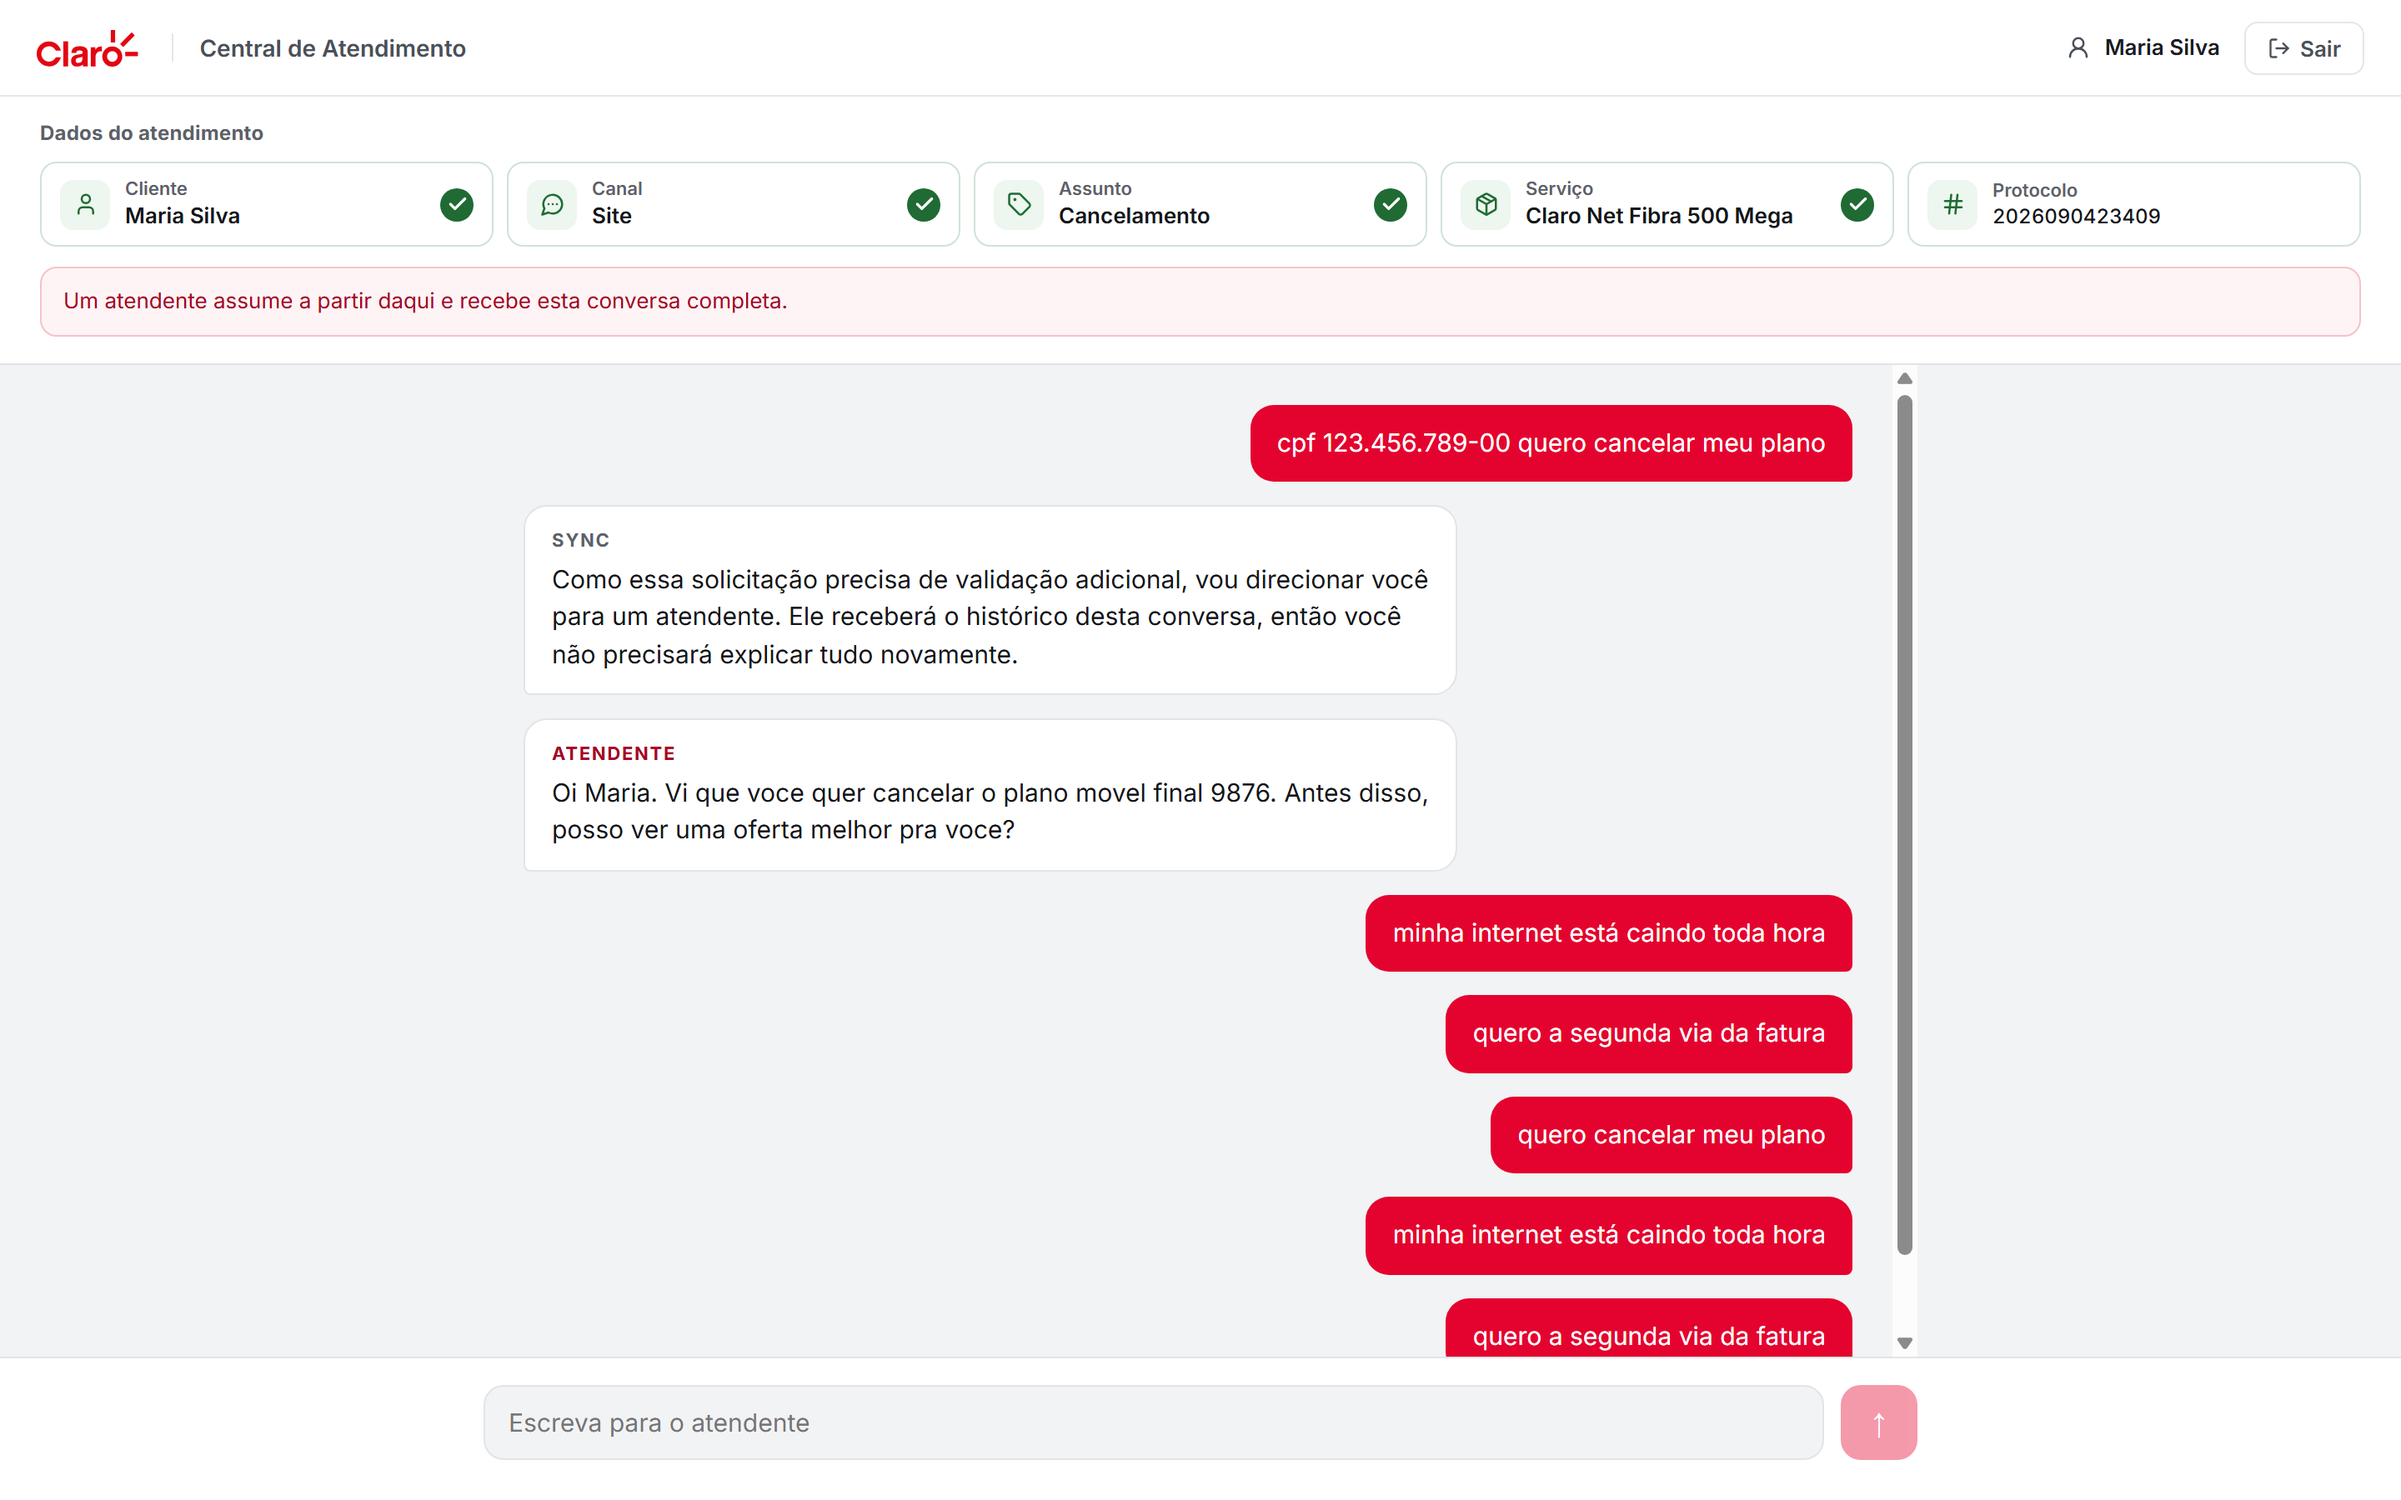
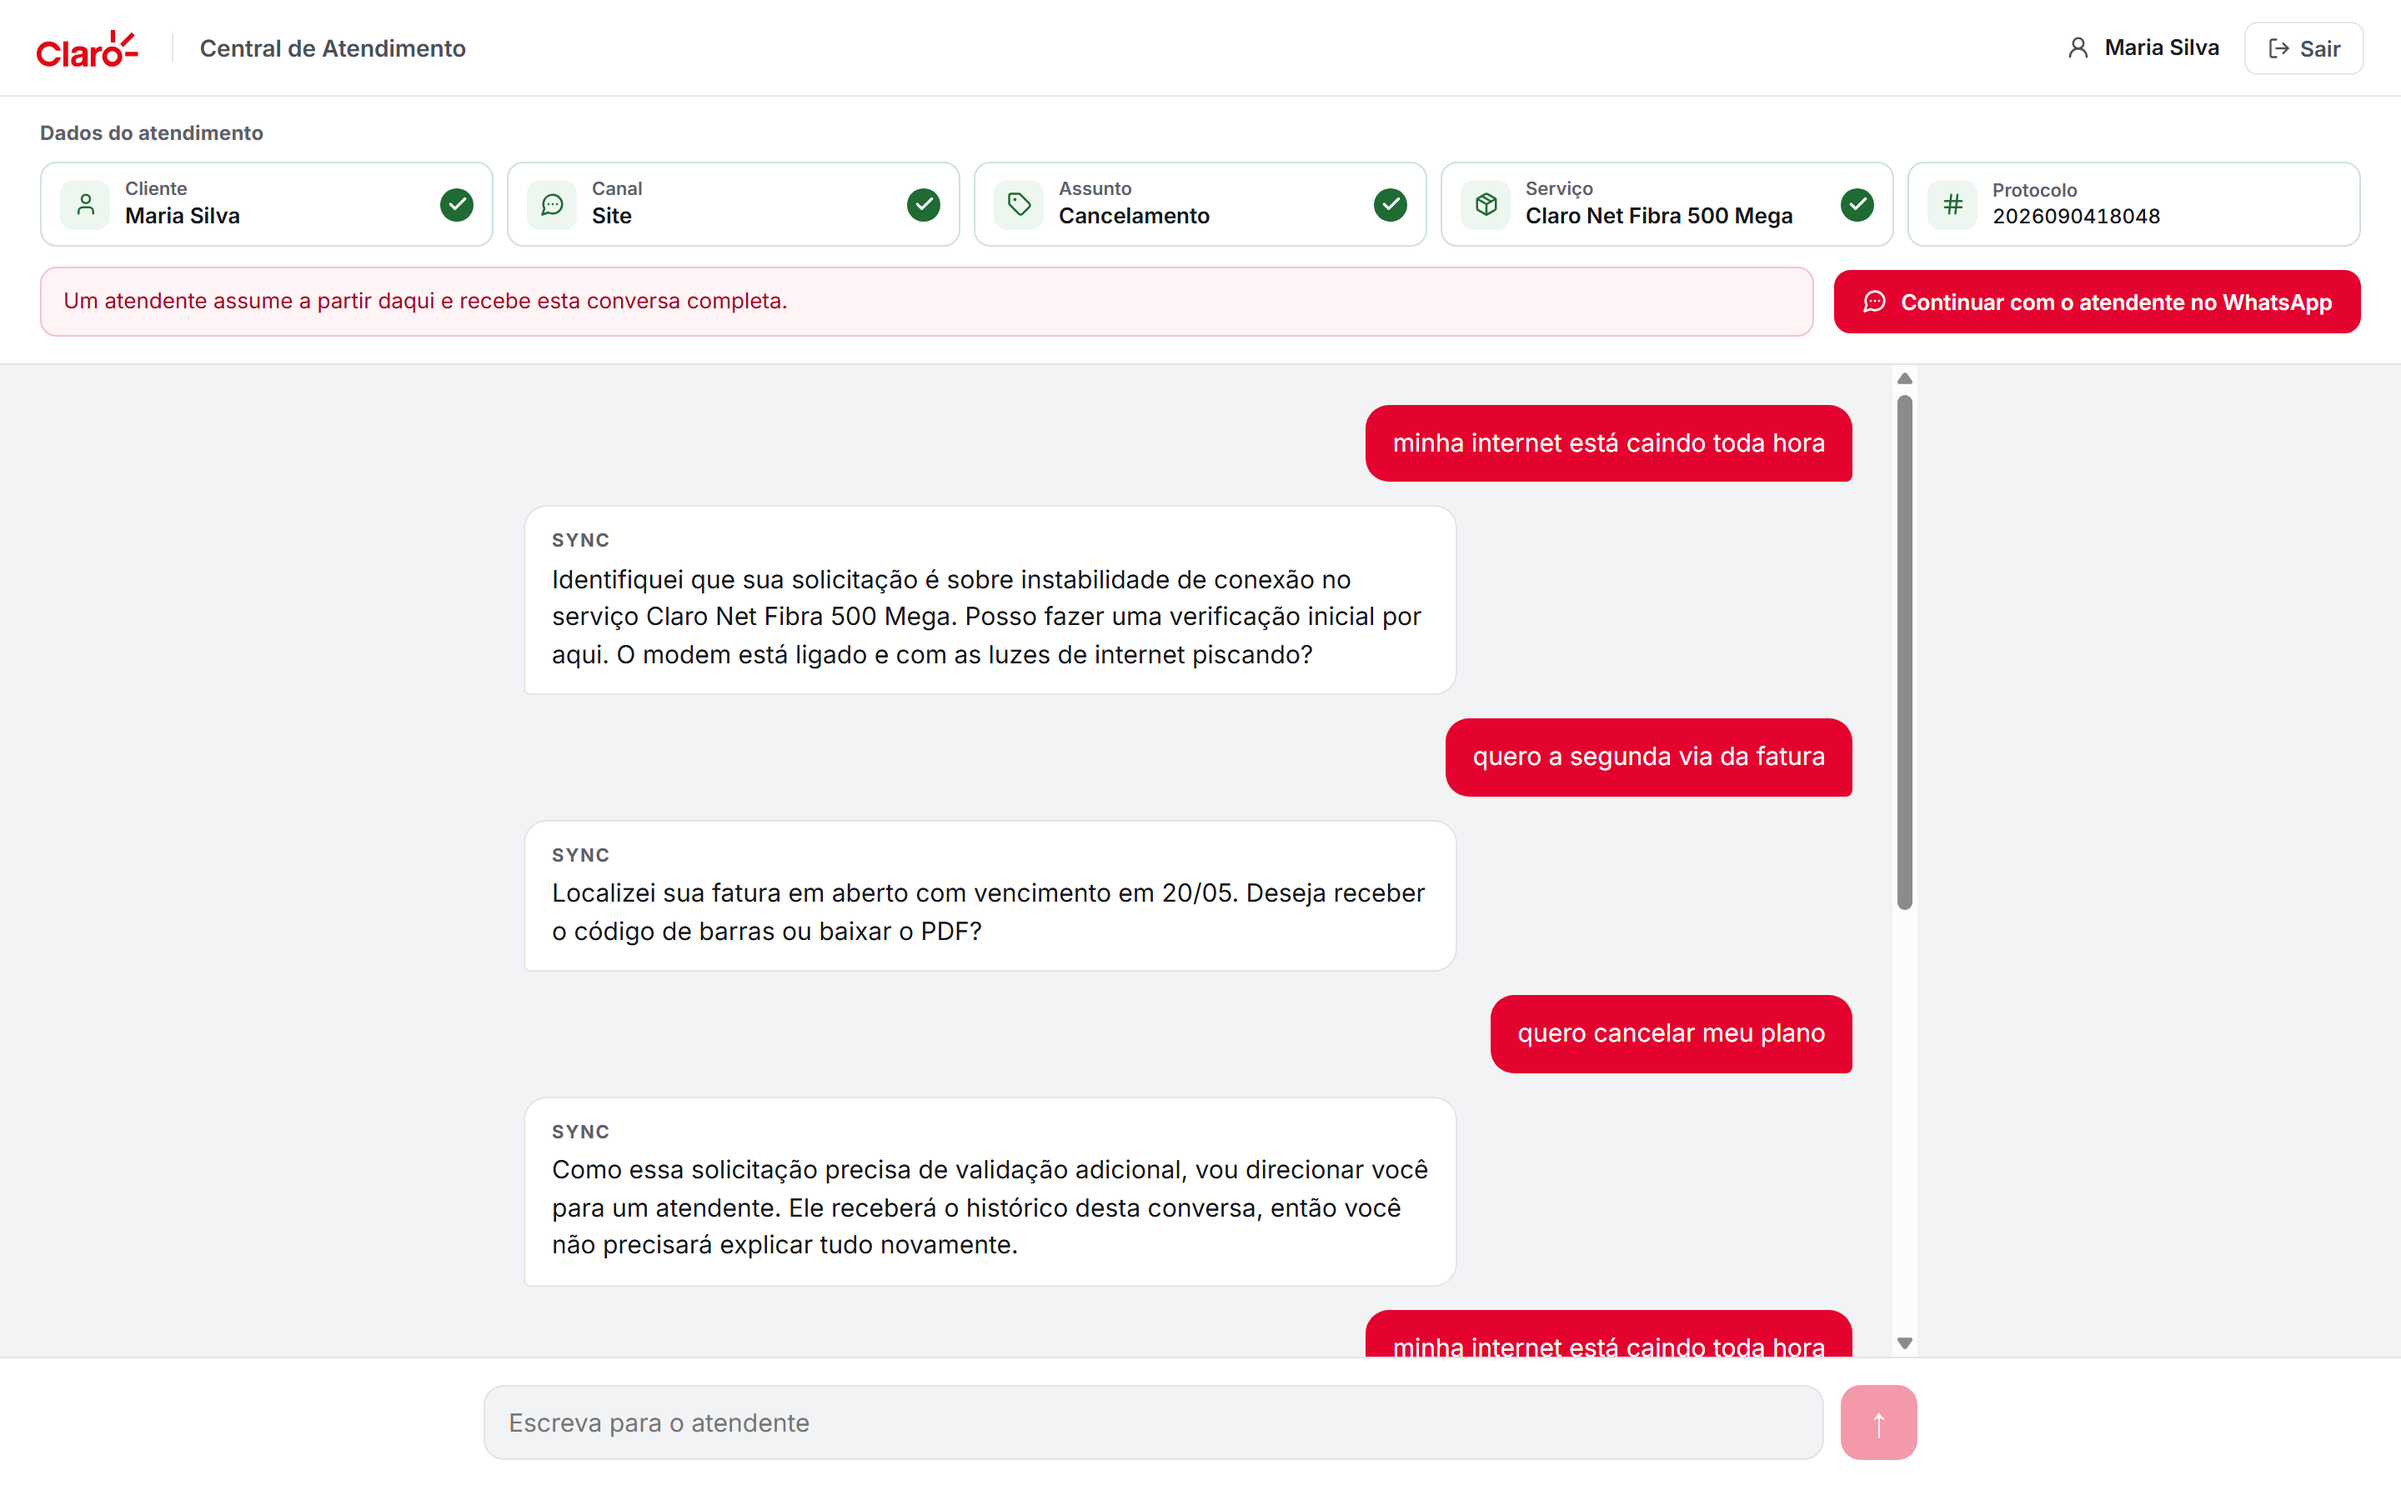
fix: the WhatsApp button was hidden exactly when it matters
The handoff button only rendered while the conversation was still with the
bot. Once an agent took over it disappeared, which is the opposite of the
scenario the project exists for: leave the site and continue the SAME
conversation, with the SAME person, on WhatsApp. It came back only after
the conversation was resolved, which is useless.

It now shows in every state, and turns into the primary action once an
agent is on the line. The escalation note and the button share one row
instead of stacking into two full-width bands above the transcript.

Arriving on WhatsApp with an agent already handling the conversation also
said 'shall we continue from here?', which is the bot taking the turn back
from a human. It now confirms the channel switch and hands the word back
to the agent. Silence was not an option either: sending the code and
getting nothing back looks broken.

Also drops the useless subject clause: 'about talking to a person' is what
the most common intent on this path produced.

diff --git a/apps/api/src/conversation/__tests__/orchestrator.test.ts b/apps/api/src/conversation/__tests__/orchestrator.test.ts
@@ -413,3 +413,63 @@ test('o codigo de handoff nao serve duas vezes', async () => {
 
   expect(intruso.data.protocol).not.toBe(noSite.data.protocol)
 })
+
+test('handoff com atendente na linha: o bot confirma o canal e nao assume a conversa', async () => {
+  // Este e o caminho que se usa de verdade na apresentacao: a pessoa pede
+  // atendente, o atendente responde, e SO ENTAO ela quer levar a conversa para o
+  // WhatsApp. O botao de handoff ficava escondido nesse estado, e a frase de
+  // chegada era "vamos seguir daqui?", com o bot roubando o turno de volta.
+  const handoff = new HandoffUseCase(prisma, conversas, {
+    driver: 'mock',
+    mockUrl: 'http://localhost:5175',
+  })
+
+  const comHandoff = new ConversationOrchestrator(
+    new IdentityService(clientes, conversas),
+    conversas,
+    mensagens,
+    clientes,
+    new RuleClassifier(),
+    handoff,
+  )
+
+  const noSite = await comHandoff.handle(entrada('quero falar com um atendente'))
+  if (!noSite.success) throw new Error('falhou')
+  expect(noSite.data.status).toBe('WAITING_HUMAN')
+
+  await conversas.update(noSite.data.conversationId, { status: 'WITH_HUMAN' })
+
+  // O link tem de sair mesmo com a conversa nas maos do atendente.
+  const link = await handoff.create(noSite.data.conversationId)
+  expect(link.success).toBe(true)
+  if (!link.success) return
+
+  const noZap = await comHandoff.handle({
+    channel: 'WHATSAPP',
+    text: `Continuar atendimento ${link.data.code}`,
+    receivedAt: new Date(),
+    phone: '+5511955550009',
+  })
+  if (!noZap.success) throw new Error('falhou')
+
+  // Mesmo atendimento, canal novo, atendente ainda no comando.
+  expect(noZap.data.protocol).toBe(noSite.data.protocol)
+  expect(noZap.data.context.channel).toBe('WHATSAPP')
+  expect(noZap.data.status).toBe('WITH_HUMAN')
+
+  // Confirma a troca sem convidar a pessoa a conversar com o bot.
+  expect(noZap.data.reply).toContain('mesmo atendimento')
+  expect(noZap.data.reply).toContain('atendente que já está com você')
+  expect(noZap.data.reply).not.toContain('Vamos seguir daqui')
+
+  // E a mensagem seguinte, sem codigo, cai no silencio do bot como antes.
+  const seguinte = await comHandoff.handle({
+    channel: 'WHATSAPP',
+    text: 'ainda esta lenta',
+    receivedAt: new Date(),
+    phone: '+5511955550009',
+  })
+  if (!seguinte.success) throw new Error('falhou')
+  expect(seguinte.data.reply).toBeNull()
+  expect(seguinte.data.protocol).toBe(noSite.data.protocol)
+})

diff --git a/packages/chat-ui/src/ContextRail.tsx b/packages/chat-ui/src/ContextRail.tsx
@@ -108,17 +108,36 @@ export function ContextRail({ state, onHandoff, handoffBusy }: ContextRailProps)
         )}
       </ul>
 
-      {escalado && (
-        <p className="ctx__note ctx__note--escalated">
-          Um atendente assume a partir daqui e recebe esta conversa completa.
-        </p>
-      )}
+      {/* Aviso e acao dividem a linha. Empilhados ocupavam duas faixas inteiras
+          acima da conversa, e o botao ficava orfao no canto esquerdo. */}
+      <div className="ctx__foot">
+        {escalado && (
+          <p className="ctx__note ctx__note--escalated">
+            Um atendente assume a partir daqui e recebe esta conversa completa.
+          </p>
+        )}
 
-      {onHandoff && state.conversationId && !escalado && (
-        <button type="button" className="ctx__handoff" onClick={onHandoff} disabled={handoffBusy}>
-          {handoffBusy ? 'Gerando link' : 'Continuar no WhatsApp'}
-        </button>
-      )}
+        {/* Aparece tambem depois da escalada, e principalmente ali.
+          Escondia-lo com atendente na linha matava o cenario principal do
+          projeto: sair do site e continuar a MESMA conversa, com a MESMA pessoa,
+          no WhatsApp. Sem isso o botao so existia enquanto a conversa era com o
+          bot, que e justamente quando trocar de canal importa menos. */}
+        {onHandoff && state.conversationId && (
+          <button
+            type="button"
+            className={`ctx__handoff ${escalado ? 'is-primary' : ''}`}
+            onClick={onHandoff}
+            disabled={handoffBusy}
+          >
+            <MessageCircleMore size={15} strokeWidth={2.2} aria-hidden="true" />
+            {handoffBusy
+              ? 'Gerando link'
+              : escalado
+                ? 'Continuar com o atendente no WhatsApp'
+                : 'Continuar no WhatsApp'}
+          </button>
+        )}
+      </div>
     </section>
   )
 }

diff --git a/apps/api/src/conversation/auto-reply.ts b/apps/api/src/conversation/auto-reply.ts
@@ -85,6 +85,38 @@ export function buildHandoffReply(
   return `Olá! Continuando seu atendimento iniciado ${origem}. Já identifiquei que é sobre ${assunto}${detalhe}. Vamos seguir daqui?`
 }
 
+/**
+ * Chegada no canal novo quando ja existe atendente na conversa.
+ *
+ * Separada de buildHandoffReply porque a outra diz "vamos seguir daqui?", e essa
+ * frase, com uma pessoa ja conduzindo, e o bot roubando o turno de volta. Aqui o
+ * texto so confirma que e o mesmo atendimento e devolve a palavra ao atendente.
+ *
+ * Ficar em silencio total tambem nao serve: a pessoa abre o WhatsApp, envia o
+ * codigo e nao recebe nada, sem saber se funcionou.
+ */
+export function buildHandoffHumanReply(
+  originChannel: string,
+  intent: Intent | null,
+  ctx: ReplyContext,
+): string {
+  const origem = NOME_DO_CANAL[originChannel] ?? 'em outro canal'
+
+  const servico = ctx.services.find((s) => s.type === 'INTERNET_RESIDENCIAL') ?? ctx.services[0]
+
+  // "sobre o atendimento com uma pessoa" nao informa nada, e e justamente a
+  // intencao mais comum neste caminho: quem pede atendente cai nela. Sem assunto
+  // util a frase diz so a origem, que e o que importa.
+  const semAssuntoUtil =
+    intent === null || intent === 'DESCONHECIDA' || intent === 'FALAR_COM_ATENDENTE'
+
+  const partes = [`Este é o mesmo atendimento iniciado ${origem}`]
+  if (!semAssuntoUtil) partes.push(`sobre ${ASSUNTO[intent]}`)
+  if (ctx.identified && servico) partes.push(`no serviço ${servico.label}`)
+
+  return `${partes.join(', ')}. O atendente que já está com você segue por aqui.`
+}
+
 export function buildEscalationReply(reason: EscalationReason): string {
   switch (reason) {
     case 'SENSITIVE_INTENT':

diff --git a/apps/web-site/src/screens/AuthScreen.tsx b/apps/web-site/src/screens/AuthScreen.tsx
@@ -166,6 +166,30 @@ export function AuthScreen({ onAuthenticated, onSkip }: AuthScreenProps) {
           <button className="btn btn--ghost" type="button" onClick={onSkip}>
             Continuar sem identificação
           </button>
+
+          {/* Nao existe cadastro aberto: a base de clientes vem semeada, porque
+              uma conta criada do zero nao teria plano nem fatura sobre o que
+              conversar. Sem esta lista quem abre a tela tenta o proprio CPF e
+              leva "nao encontramos um cadastro", que esta correto e parece bug. */}
+          <div className="auth__demo">
+            <strong className="auth__demo-title">Contas desta demonstração</strong>
+
+            <dl className="auth__demo-list">
+              <dt>Maria Silva</dt>
+              <dd>
+                CPF 123.456.789-00
+                <span>maria.silva@exemplo.com</span>
+              </dd>
+
+              <dt>João Pereira</dt>
+              <dd>
+                CPF 987.654.321-00
+                <span>joao.pereira@exemplo.com</span>
+              </dd>
+            </dl>
+
+            <p className="auth__demo-note">No primeiro acesso você define a senha.</p>
+          </div>
         </form>
       </section>
     </div>

diff --git a/packages/chat-ui/src/chat-ui.css b/packages/chat-ui/src/chat-ui.css
@@ -330,8 +330,21 @@
   grid-template-columns: 30px minmax(0, 1fr);
 }
 
+.ctx__foot {
+  display: flex;
+  align-items: center;
+  gap: 12px;
+  flex-wrap: wrap;
+}
+
+.ctx__foot:not(:empty) {
+  margin-top: 12px;
+}
+
 .ctx__note {
-  margin: 12px 0 0;
+  margin: 0;
+  flex: 1;
+  min-width: 240px;
   font-size: 13px;
   line-height: 1.5;
   color: var(--ink-muted);
@@ -346,7 +359,10 @@
 }
 
 .ctx__handoff {
-  margin-top: 12px;
+  display: inline-flex;
+  align-items: center;
+  gap: 8px;
+  flex-shrink: 0;
   border: 1.5px solid var(--line);
   background: var(--card);
   color: var(--ink);
@@ -361,6 +377,19 @@
 
 .ctx__handoff:hover:not(:disabled) {
   border-color: var(--claro-red);
+}
+
+/* Com atendente na linha, trocar de canal deixa de ser opcao lateral e passa a
+   ser a acao que a pessoa procura. */
+.ctx__handoff.is-primary {
+  border-color: var(--claro-red);
+  background: var(--claro-red);
+  color: #fff;
+}
+
+.ctx__handoff.is-primary:hover:not(:disabled) {
+  background: var(--claro-deep);
+  border-color: var(--claro-deep);
 }
 
 .ctx__handoff:disabled {

diff --git a/apps/web-site/src/styles.css b/apps/web-site/src/styles.css
@@ -294,6 +294,56 @@ body {
   background: var(--line);
 }
 
+.auth__demo {
+  margin: 4px 0 0;
+  padding: 12px 14px;
+  border: 1px solid var(--line);
+  border-radius: 10px;
+  background: var(--surface-muted, #f6f7f9);
+  font-size: 12px;
+  font-variant-numeric: tabular-nums;
+}
+
+.auth__demo-title {
+  display: block;
+  color: var(--ink-muted);
+  font-size: 10px;
+  font-weight: 700;
+  letter-spacing: 0.09em;
+  text-transform: uppercase;
+}
+
+.auth__demo-list {
+  margin: 10px 0 0;
+  display: grid;
+  gap: 10px;
+}
+
+.auth__demo-list dt {
+  color: var(--ink);
+  font-size: 13px;
+  font-weight: 600;
+  line-height: 1.3;
+}
+
+.auth__demo-list dd {
+  margin: 2px 0 0;
+  display: flex;
+  flex-direction: column;
+  color: var(--ink-muted);
+  font-size: 12px;
+  line-height: 1.5;
+}
+
+.auth__demo-note {
+  margin: 11px 0 0;
+  padding-top: 10px;
+  border-top: 1px solid var(--line);
+  color: var(--ink-muted);
+  font-size: 12px;
+  line-height: 1.5;
+}
+
 /* ---------- app shell ---------- */
 
 .app {

diff --git a/apps/api/src/conversation/orchestrator.ts b/apps/api/src/conversation/orchestrator.ts
@@ -12,6 +12,7 @@ import type { IIntentClassifier } from '../nlp/types.js'
 import {
   buildAutoReply,
   buildEscalationReply,
+  buildHandoffHumanReply,
   buildHandoffReply,
   type ReplyContext,
 } from './auto-reply.js'
@@ -125,7 +126,11 @@ export class ConversationOrchestrator {
         ...(clienteEfetivo && !conversa.customerId ? { customerId: clienteEfetivo.id } : {}),
       })
 
-      const resposta = buildHandoffReply(conversa.originChannel, conversa.intent, contexto)
+      // Com atendente na linha a frase muda: quem conduz continua sendo a
+      // pessoa, e o bot so confirma a troca de canal.
+      const resposta = SOB_COMANDO_HUMANO.includes(conversa.status)
+        ? buildHandoffHumanReply(conversa.originChannel, conversa.intent, contexto)
+        : buildHandoffReply(conversa.originChannel, conversa.intent, contexto)
 
       await this.messages.append({
         conversationId: conversa.id,

diff --git a/apps/api/src/conversation/__tests__/access.test.ts b/apps/api/src/conversation/__tests__/access.test.ts
@@ -1,11 +1,11 @@
 import { prisma } from '@sync/db'
 import { afterAll, beforeEach, expect, test } from 'vitest'
+import type { TokenSubject } from '../../auth/tokens.js'
 import {
   PrismaConversationRepository,
   PrismaCustomerRepository,
   PrismaMessageRepository,
 } from '../../context/index.js'
-import type { TokenSubject } from '../../auth/tokens.js'
 import { assertPodeAcessar } from '../access.js'
 import { HandoffUseCase } from '../handoff.use-case.js'
 import { ReadConversationUseCase } from '../read-conversation.use-case.js'
